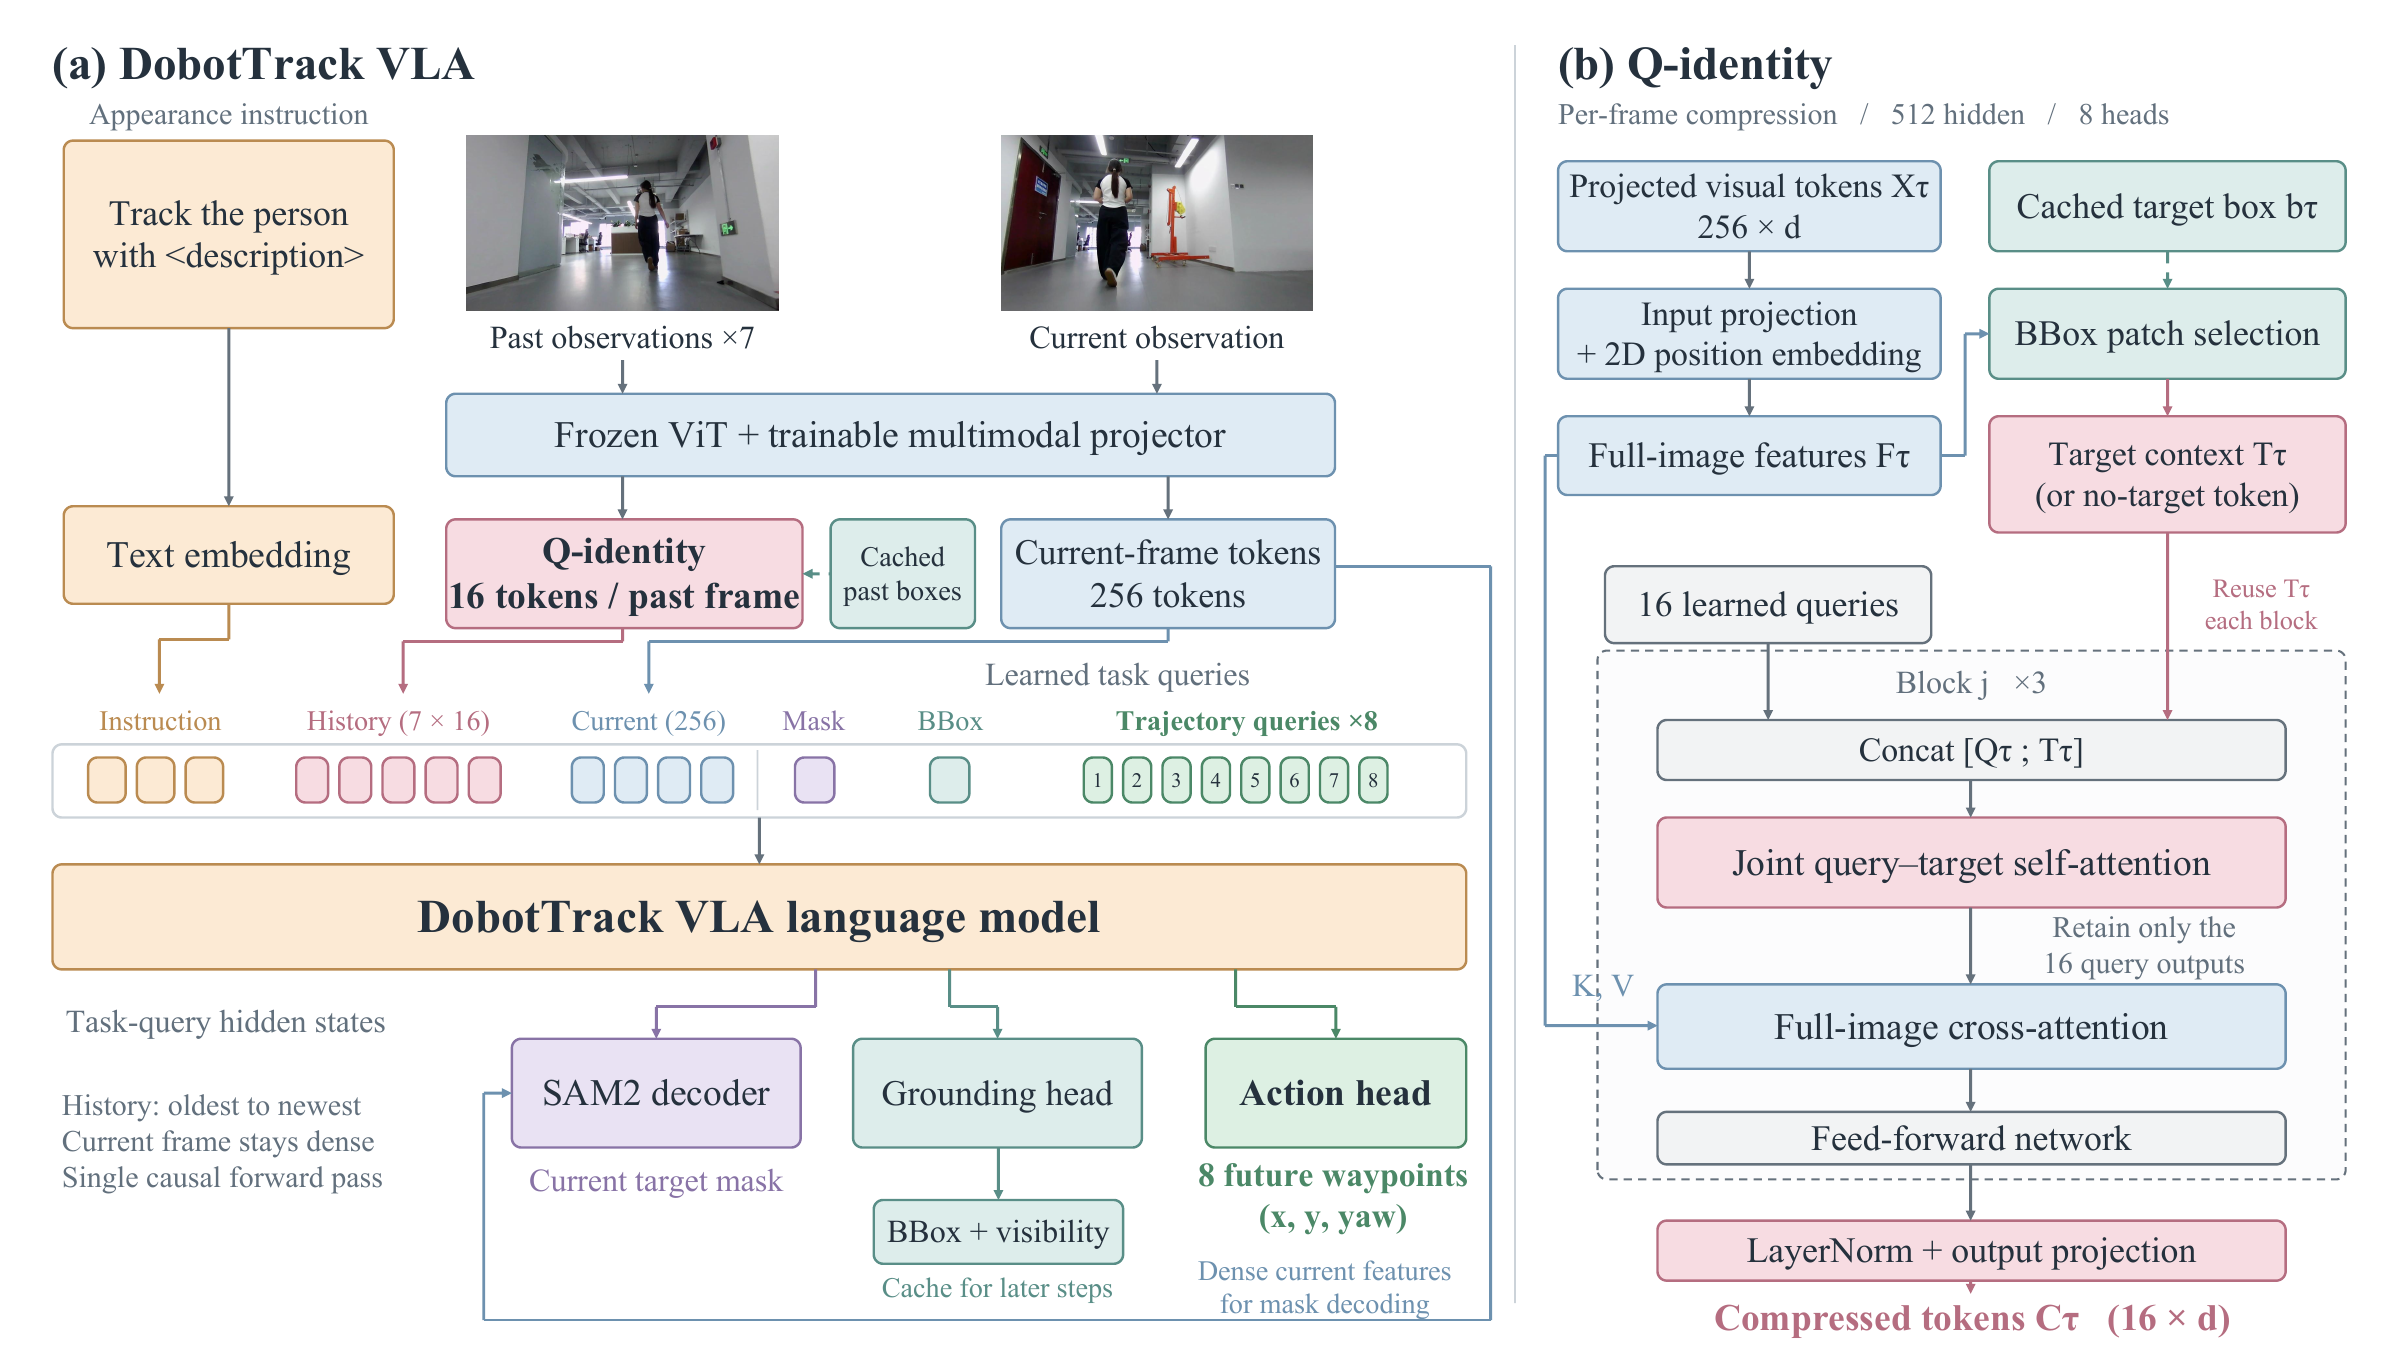
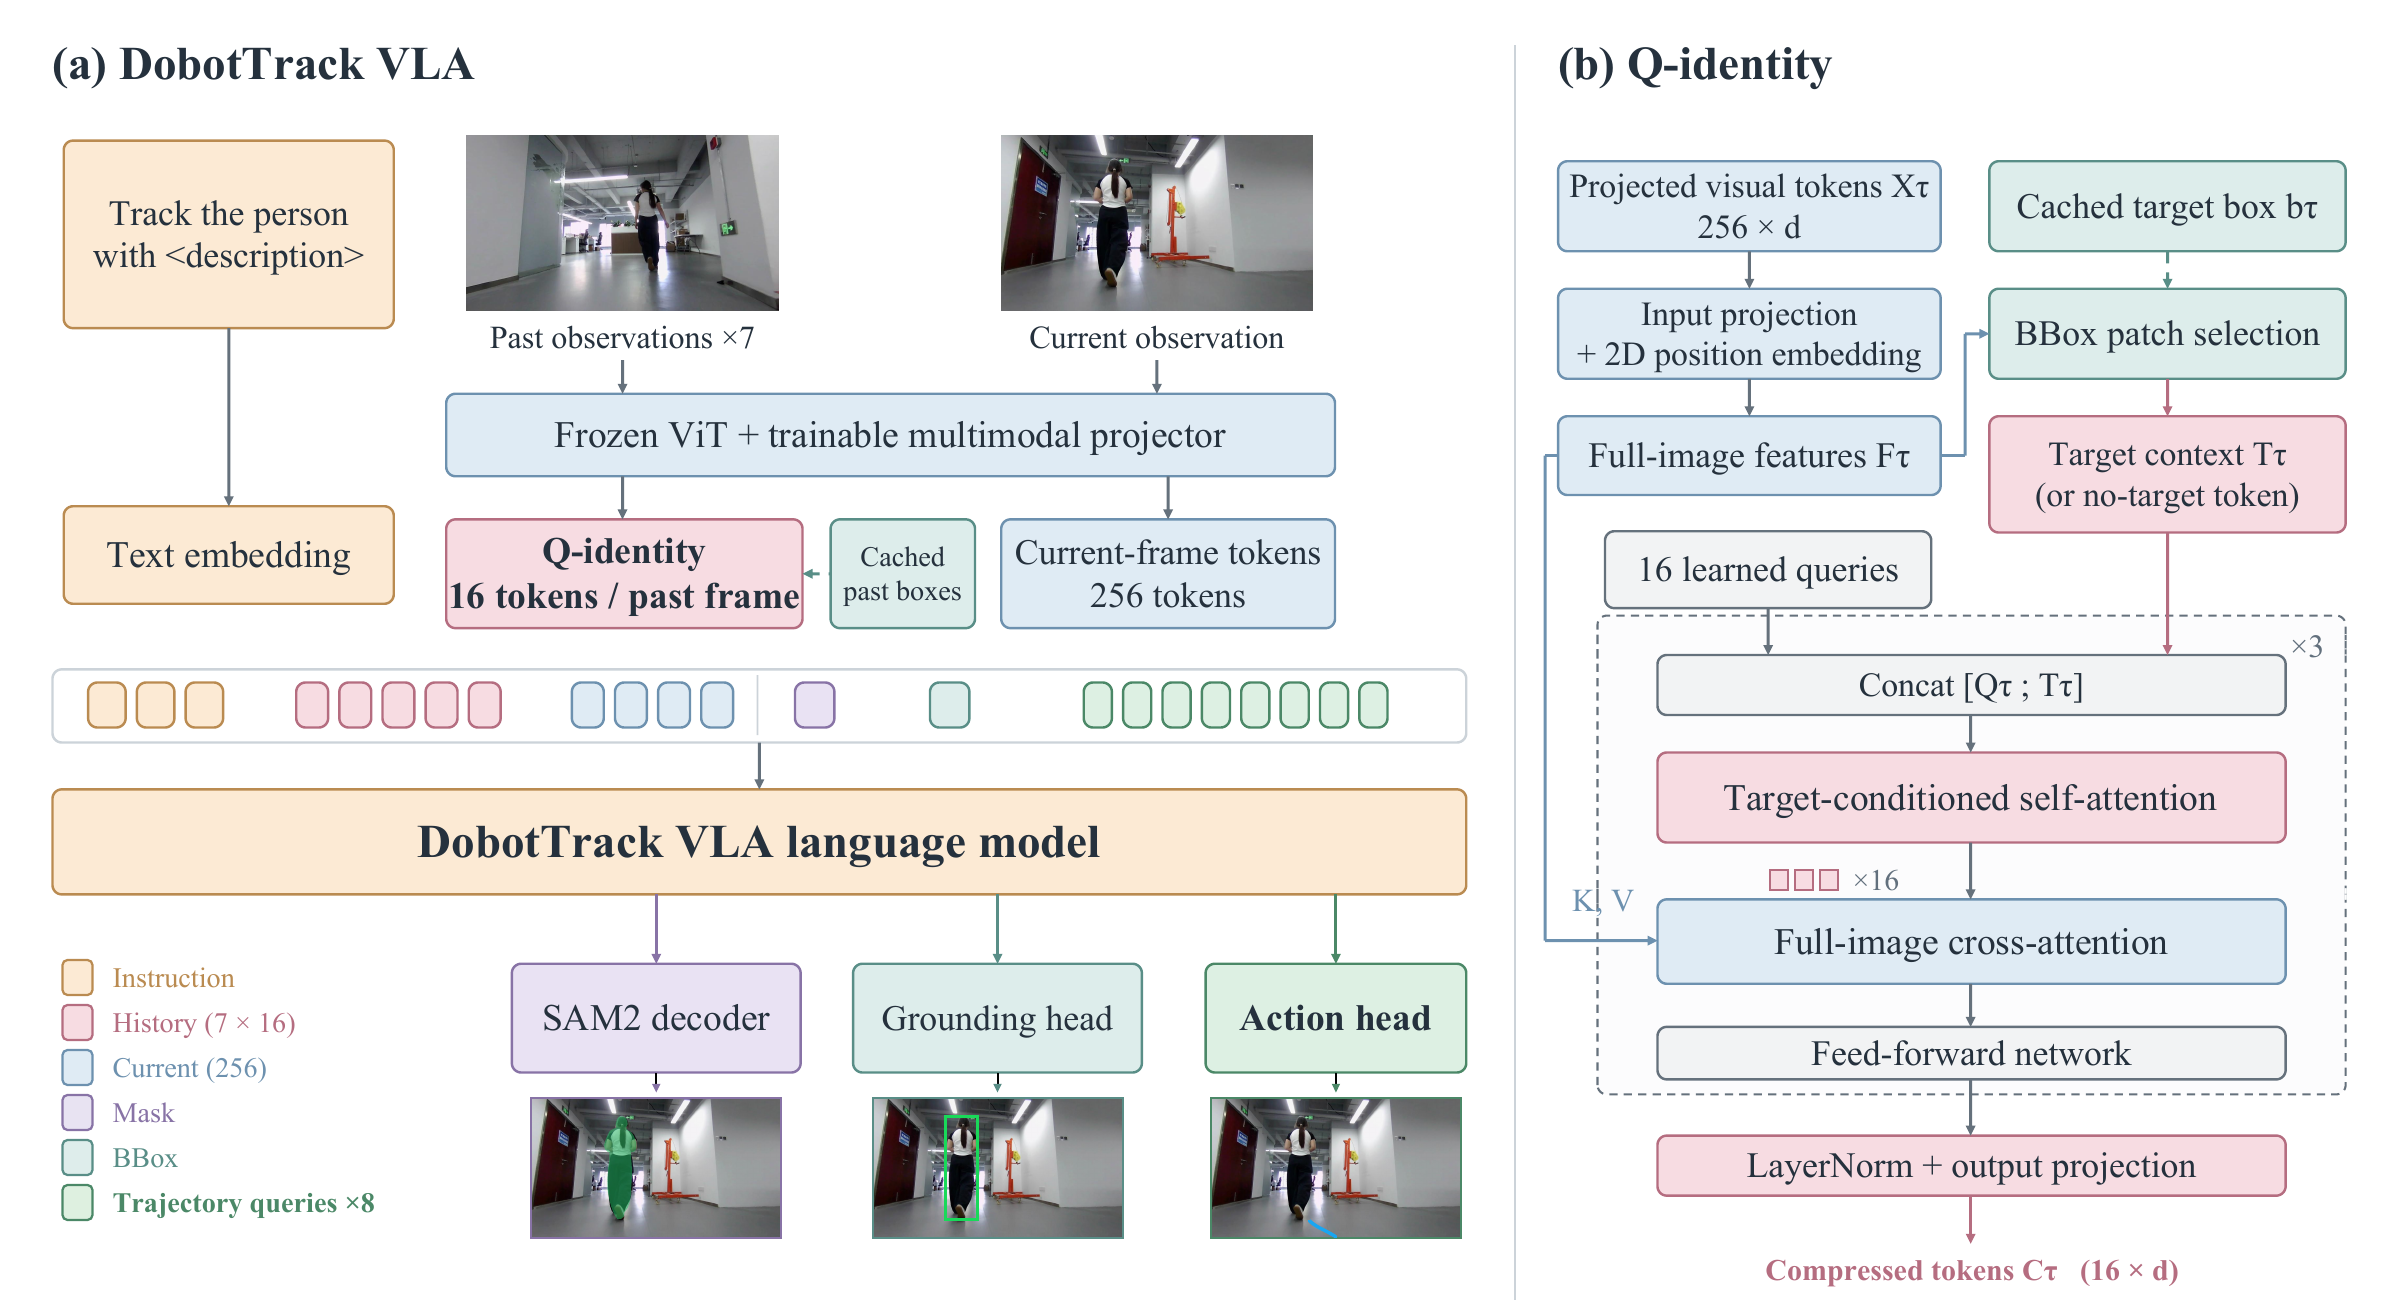
Sync revised paper architecture figure

diff --git a/README.md b/README.md
@@ -19,7 +19,7 @@ Pengkun Zheng<sup>3,†</sup>, Yajun Zheng<sup>3</sup>, Ying Zhang<sup>3</sup>, 
 
 **DobotTrack** follows a person specified by a natural-language appearance description. It combines complementary **mask and box supervision** with **Q-identity**, a target-grounded visual history compressor, to predict future egocentric waypoints from a temporal window of RGB observations.
 
-<img src="assets/paper/architecture.png" alt="DobotTrack architecture and Q-identity history compression" width="100%">
+<img src="assets/paper/architecture.png?v=0c838b036d31" alt="DobotTrack architecture and Q-identity history compression" width="100%">
 
 ## News
 
